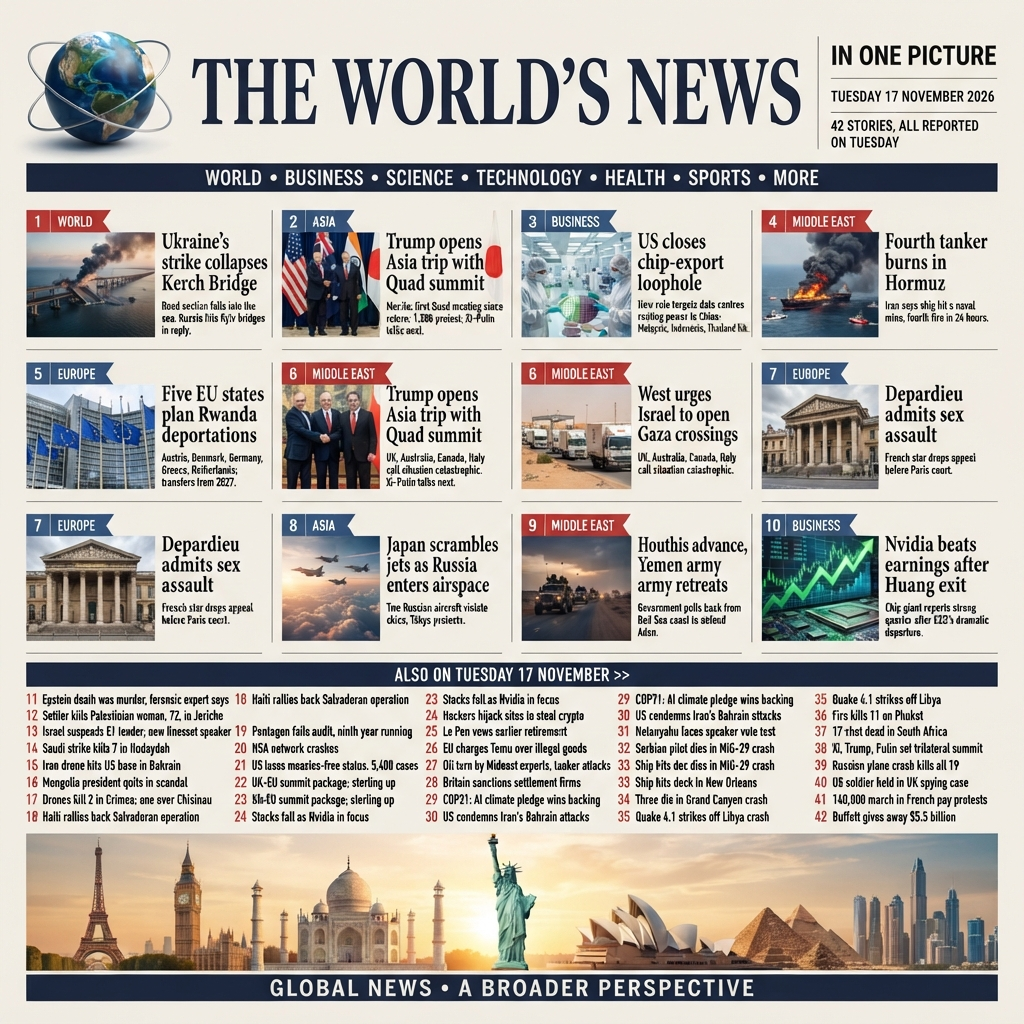
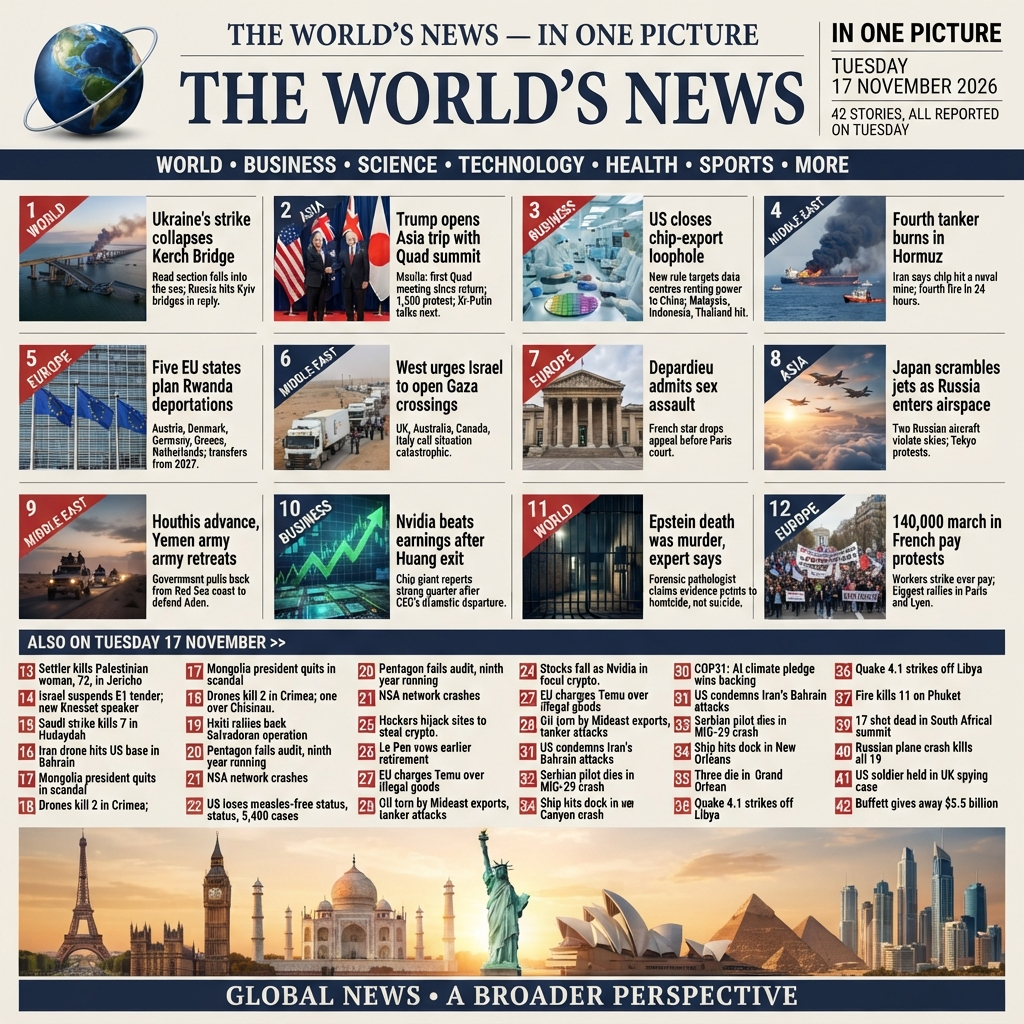
v2: 12 main story cards (Epstein + French protests added)

diff --git a/README.md b/README.md
@@ -6,17 +6,18 @@
 
 One image summing up the world's news of Tuesday 17 November 2026:
 a classic newspaper front page with 42 stories — a globe icon +
-"THE WORLD'S NEWS" masthead + dark-blue nav bar, 10 main story cards
+"THE WORLD'S NEWS" masthead + dark-blue nav bar, 12 main story cards
 (Ukraine's strike collapsing the Kerch Bridge, Trump's Quad summit in
 Manila, the US closing the chip-export loophole, the fourth tanker
 fire in Hormuz, five EU states planning Rwanda deportations, the West
 urging Israel to open Gaza crossings, Depardieu admitting sex assault,
 Japan scrambling jets over Russian airspace, the Houthi advance in
-Yemen, Nvidia beating earnings after Huang's exit), each with a
-numbered tag + category ribbon + image + headline + explainer, plus
-32 more stories in the "ALSO ON TUESDAY" list in 3 columns, and a
-world-landmarks skyline strip at the bottom. All facts verified
-against real reporting of the day.
+Yemen, Nvidia beating earnings after Huang's exit, the forensic expert
+saying Epstein's death was murder, 140,000 marching in French pay
+protests), each with a numbered tag + category ribbon + image +
+headline + explainer, plus 30 more stories in the "ALSO ON TUESDAY"
+list in 3 columns, and a world-landmarks skyline strip at the bottom.
+All facts verified against real reporting of the day.
 
 `main.py` copies the pre-composed `entry.png` to
 `$MAKEFUN_OUTPUT_DIR/entry.png` and verifies size and format.
